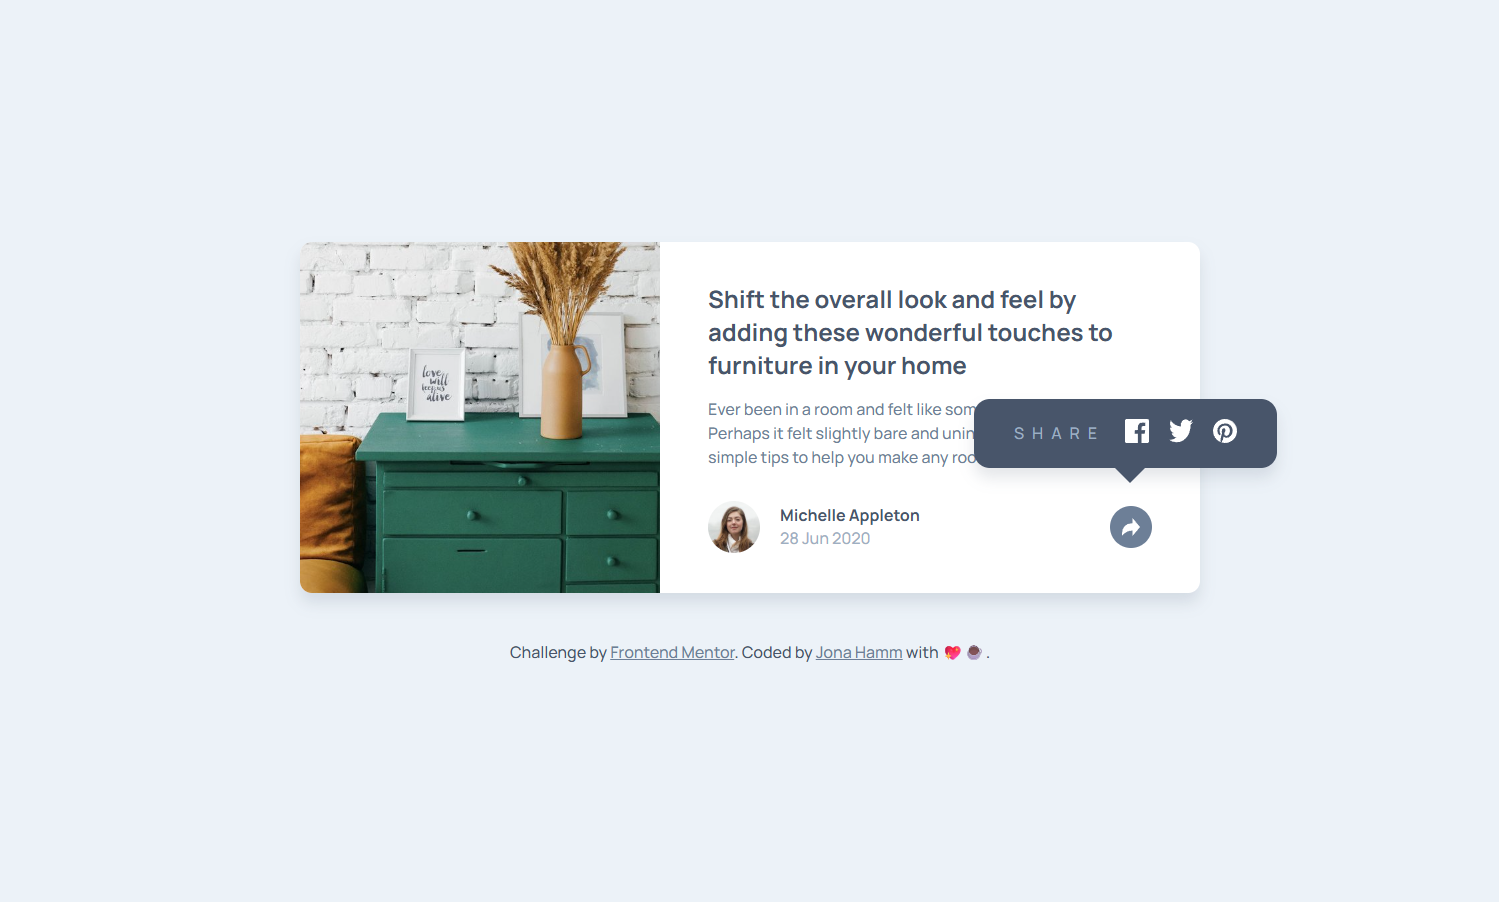
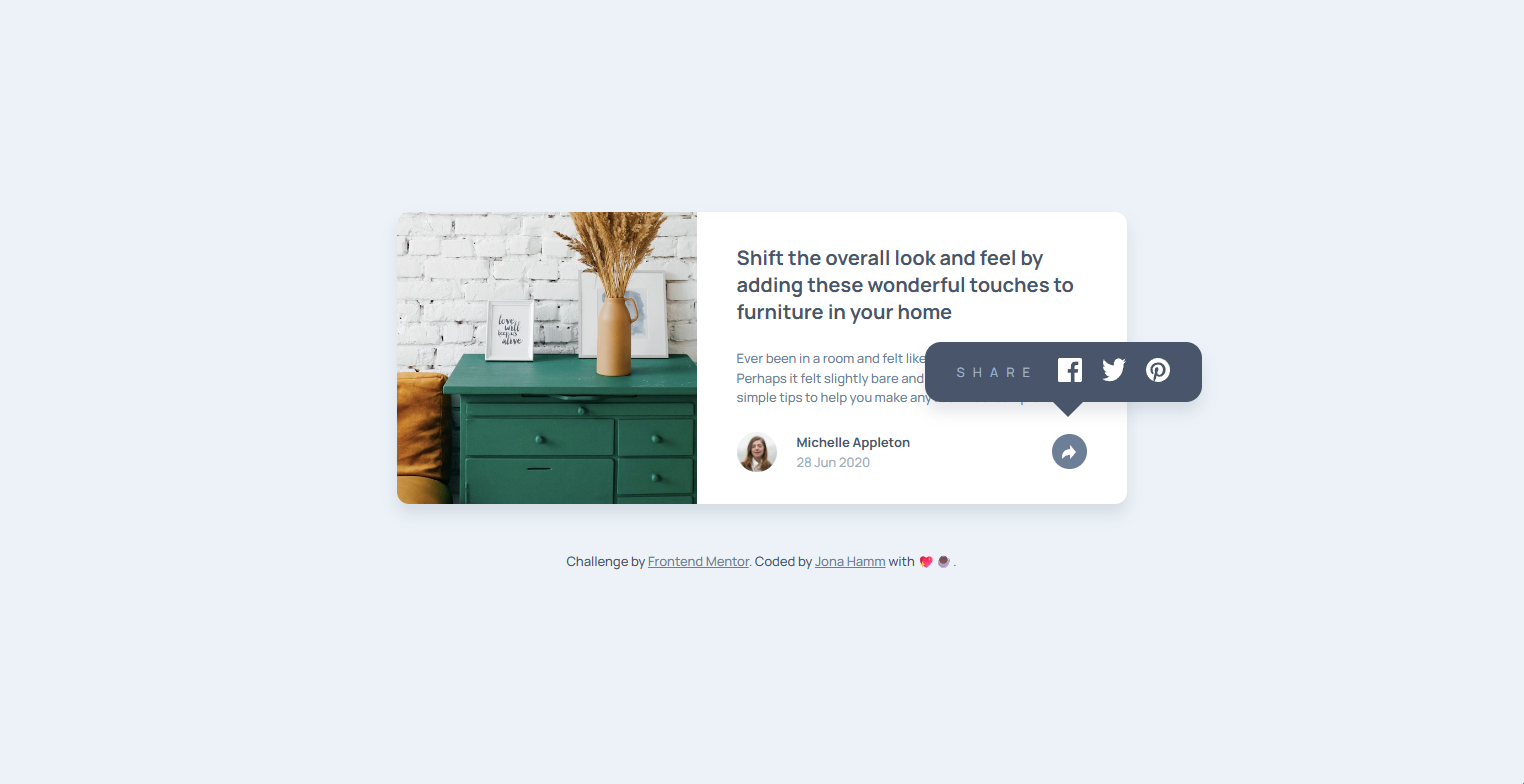
Adjust Font & Padding sizes

Changed region(s): [[0.1841, 0.2449, 0.8592, 0.6735], [0.3376, 0.7041, 0.6751, 0.7347]]

diff --git a/src/styles.css b/src/styles.css
@@ -7,9 +7,8 @@
   --fw-medium: 500;
   --fw-bold: 700;
 
-  --fs-base: clamp(0.9375rem, 2.5vw, 1rem);
-  --fs-heading: clamp(1.25rem, 2.5vw, 1.5rem);
-  --fs-details: 1rem;
+  --fs-base: 0.8125rem;
+  --fs-heading: 1.25rem;
 
   --ff-manrope: "Manrope", sans-serif;
   --shadow-grayish-blue: 0 10px 15px hsla(217, 19%, 35%, 0.15);
@@ -51,8 +50,7 @@ body {
 
 .article-content {
   position: relative;
-  padding: 2.5rem 2.5rem 1.5rem 2.5rem;
-  flex: 1;
+  padding: 1.5rem 2rem;
 
   display: flex;
   flex-direction: column;
@@ -75,7 +73,7 @@ body {
   display: flex;
   justify-content: space-between;
   align-items: center;
-  margin-top: 1.5rem;
+  margin-top: 1.25rem;
 }
 
 .article-source {
@@ -87,20 +85,18 @@ body {
 }
 
 .author-avatar {
-  width: 52px;
-  height: 52px;
+  width: 40px;
+  height: 40px;
   border-radius: 50%;
 }
 
 .author-name {
-  font-size: var(--fs-details);
   font-weight: var(--fw-bold);
   color: var(--color-dark-grayish-blue);
   margin-bottom: 0.1rem;
 }
 
 .date {
-  font-size: var(--fs-details);
   font-weight: var(--fw-medium);
   color: var(--color-grayish-blue);
 }
@@ -121,7 +117,7 @@ body {
 
   background-color: var(--color-dark-grayish-blue);
   border-radius: 0 0 0.75rem 0.75rem;
-  padding: 2rem 2.5rem;
+  padding: 1.8rem 2.5rem;
 
   opacity: 0;
   transform: scaleX(0);
@@ -144,9 +140,9 @@ body {
 }
 
 .share-menu p {
-  font-size: var(--fs-details);
   font-weight: var(--fw-medium);
   color: var(--color-grayish-blue);
+
   text-transform: uppercase;
   letter-spacing: 0.5rem;
 }
@@ -160,12 +156,12 @@ body {
 }
 
 .share-option img {
-  width: 28px;
-  height: 28px;
+  width: 20px;
+  height: 20px;
 }
 
 .share-btn {
-  padding: 0.75rem;
+  padding: 0.65rem;
   text-align: center;
   z-index: 3;
 
@@ -176,8 +172,8 @@ body {
 
 .share-btn img {
   display: block;
-  width: 18px;
-  height: 18px;
+  width: 14px;
+  height: 14px;
 }
 
 .article-details.open .share-btn {
@@ -201,12 +197,12 @@ body {
 
 @media (min-width: 48rem) {
   .article-card {
-    max-width: 900px;
+    max-width: 730px;
     flex-direction: row;
   }
 
   .article-preview {
-    max-width: 360px;
+    max-width: 300px;
     object-fit: cover;
     object-position: left center;
     border-radius: 0.75rem 0 0 0.75rem;
@@ -214,17 +210,20 @@ body {
 
   .article-content {
     position: static;
-    padding: 2.5rem 3rem;
+    padding: 2rem 2.5rem;
+
+    flex: 1;
+    gap: 1.5rem;
   }
 
   .article-details {
     position: relative;
-    margin-top: 1rem;
+    margin-top: 0;
   }
 
   .share-menu {
-    inset: auto -125px 85px auto;
-    padding: 1.25rem 2.5rem;
+    inset: auto auto 70px 188px;
+    padding: 1rem 2rem;
     border-radius: 1rem;
     box-shadow: var(--shadow-grayish-blue);
 
